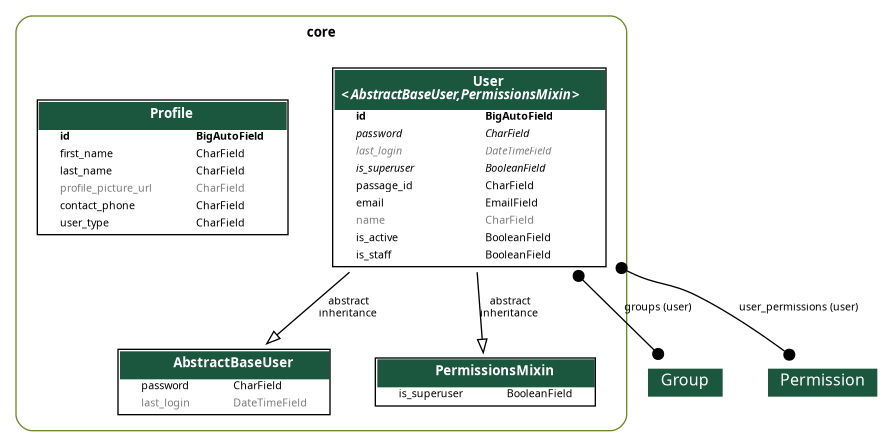
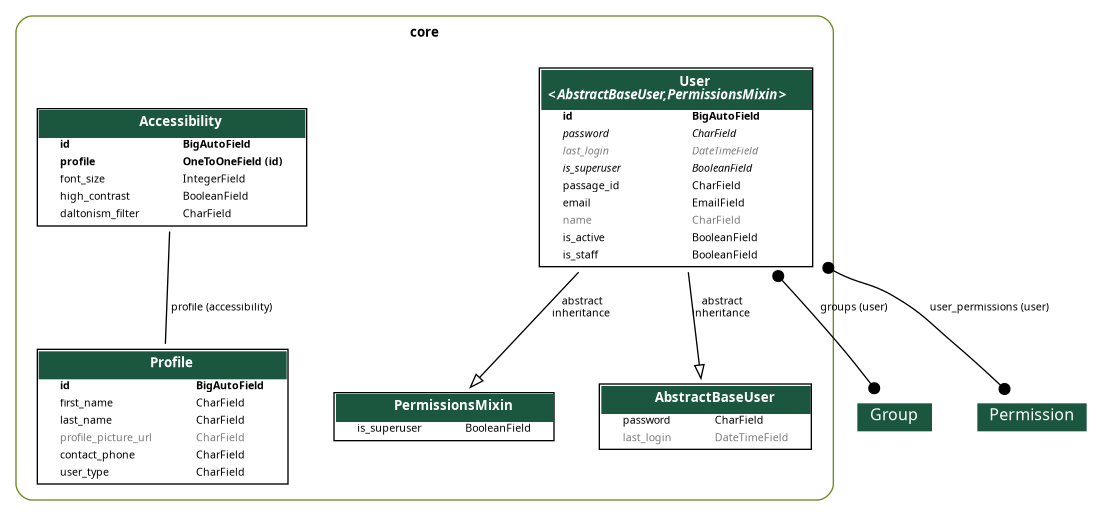
Merge pull request #4 from NextRouter-PI/FEAT-3
feat: criacao de tabela Accessibility #3

Pull request: feat: criacao de tabela Accessibility #3

diff --git a/core/migrations/0006_accessibility.py b/core/migrations/0006_accessibility.py
@@ -1,0 +1,24 @@
+# Generated by Django 5.1.7 on 2026-04-01 18:12
+
+import django.db.models.deletion
+from django.db import migrations, models
+
+
+class Migration(migrations.Migration):
+
+    dependencies = [
+        ('core', '0005_profile'),
+    ]
+
+    operations = [
+        migrations.CreateModel(
+            name='Accessibility',
+            fields=[
+                ('id', models.BigAutoField(auto_created=True, primary_key=True, serialize=False, verbose_name='ID')),
+                ('font_size', models.IntegerField()),
+                ('high_contrast', models.BooleanField(default=False)),
+                ('daltonism_filter', models.CharField(max_length=20)),
+                ('profile', models.OneToOneField(on_delete=django.db.models.deletion.CASCADE, to='core.profile')),
+            ],
+        ),
+    ]

diff --git a/core/models/accessibility.py b/core/models/accessibility.py
@@ -1,0 +1,10 @@
+from django.db import models
+
+from .profile import Profile
+
+
+class Accessibility(models.Model):
+    profile = models.OneToOneField(Profile, on_delete=models.CASCADE)
+    font_size = models.IntegerField()
+    high_contrast = models.BooleanField(default=False)
+    daltonism_filter = models.CharField(max_length=20)

diff --git a/core/serializers/accessibility.py b/core/serializers/accessibility.py
@@ -1,0 +1,9 @@
+from rest_framework import serializers
+
+from core.models import Accessibility
+
+
+class AccessibilitySerializer(serializers.ModelSerializer):
+    class Meta:
+        model = Accessibility
+        fields = '__all__'

diff --git a/core/views/accessibility.py b/core/views/accessibility.py
@@ -1,0 +1,9 @@
+from rest_framework import viewsets
+
+from core.models import Accessibility
+from core.serializers import AccessibilitySerializer
+
+
+class AccessibilityViewSet(viewsets.ModelViewSet):
+    queryset = Accessibility.objects.all()
+    serializer_class = AccessibilitySerializer

diff --git a/app/urls.py b/app/urls.py
@@ -7,12 +7,13 @@ from drf_spectacular.views import (
 )
 from rest_framework.routers import DefaultRouter
 
-from core.views import ProfileViewSet, UserViewSet
+from core.views import AccessibilityViewSet, ProfileViewSet, UserViewSet
 
 router = DefaultRouter()
 
 router.register(r'usuarios', UserViewSet, basename='usuarios')
 router.register(r'perfis', ProfileViewSet, basename='perfis')
+router.register(r'acessibilidades', AccessibilityViewSet, basename='acessibilidades')
 
 urlpatterns = [
     path('admin/', admin.site.urls),

diff --git a/core/serializers/profile.py b/core/serializers/profile.py
@@ -2,8 +2,11 @@ from rest_framework import serializers
 
 from core.models import Profile
 
+from .accessibility import AccessibilitySerializer
+
 
 class ProfileSerializer(serializers.ModelSerializer):
+    accessibility = AccessibilitySerializer(read_only=True)
 
     class Meta:
         model = Profile

diff --git a/core/admin.py b/core/admin.py
@@ -53,3 +53,4 @@ class UserAdmin(BaseUserAdmin):
 
 admin.site.register(models.User, UserAdmin)
 admin.site.register(models.Profile)
+admin.site.register(models.Accessibility)

diff --git a/core/models/__init__.py b/core/models/__init__.py
@@ -1,2 +1,3 @@
 from .user import User
 from .profile import Profile
+from .accessibility import Accessibility

diff --git a/core/serializers/__init__.py b/core/serializers/__init__.py
@@ -1,2 +1,3 @@
 from .user import UserSerializer
 from .profile import ProfileSerializer
+from .accessibility import AccessibilitySerializer

diff --git a/core/views/__init__.py b/core/views/__init__.py
@@ -1,2 +1,3 @@
 from .user import UserViewSet
 from .profile import ProfileViewSet
+from .accessibility import AccessibilityViewSet